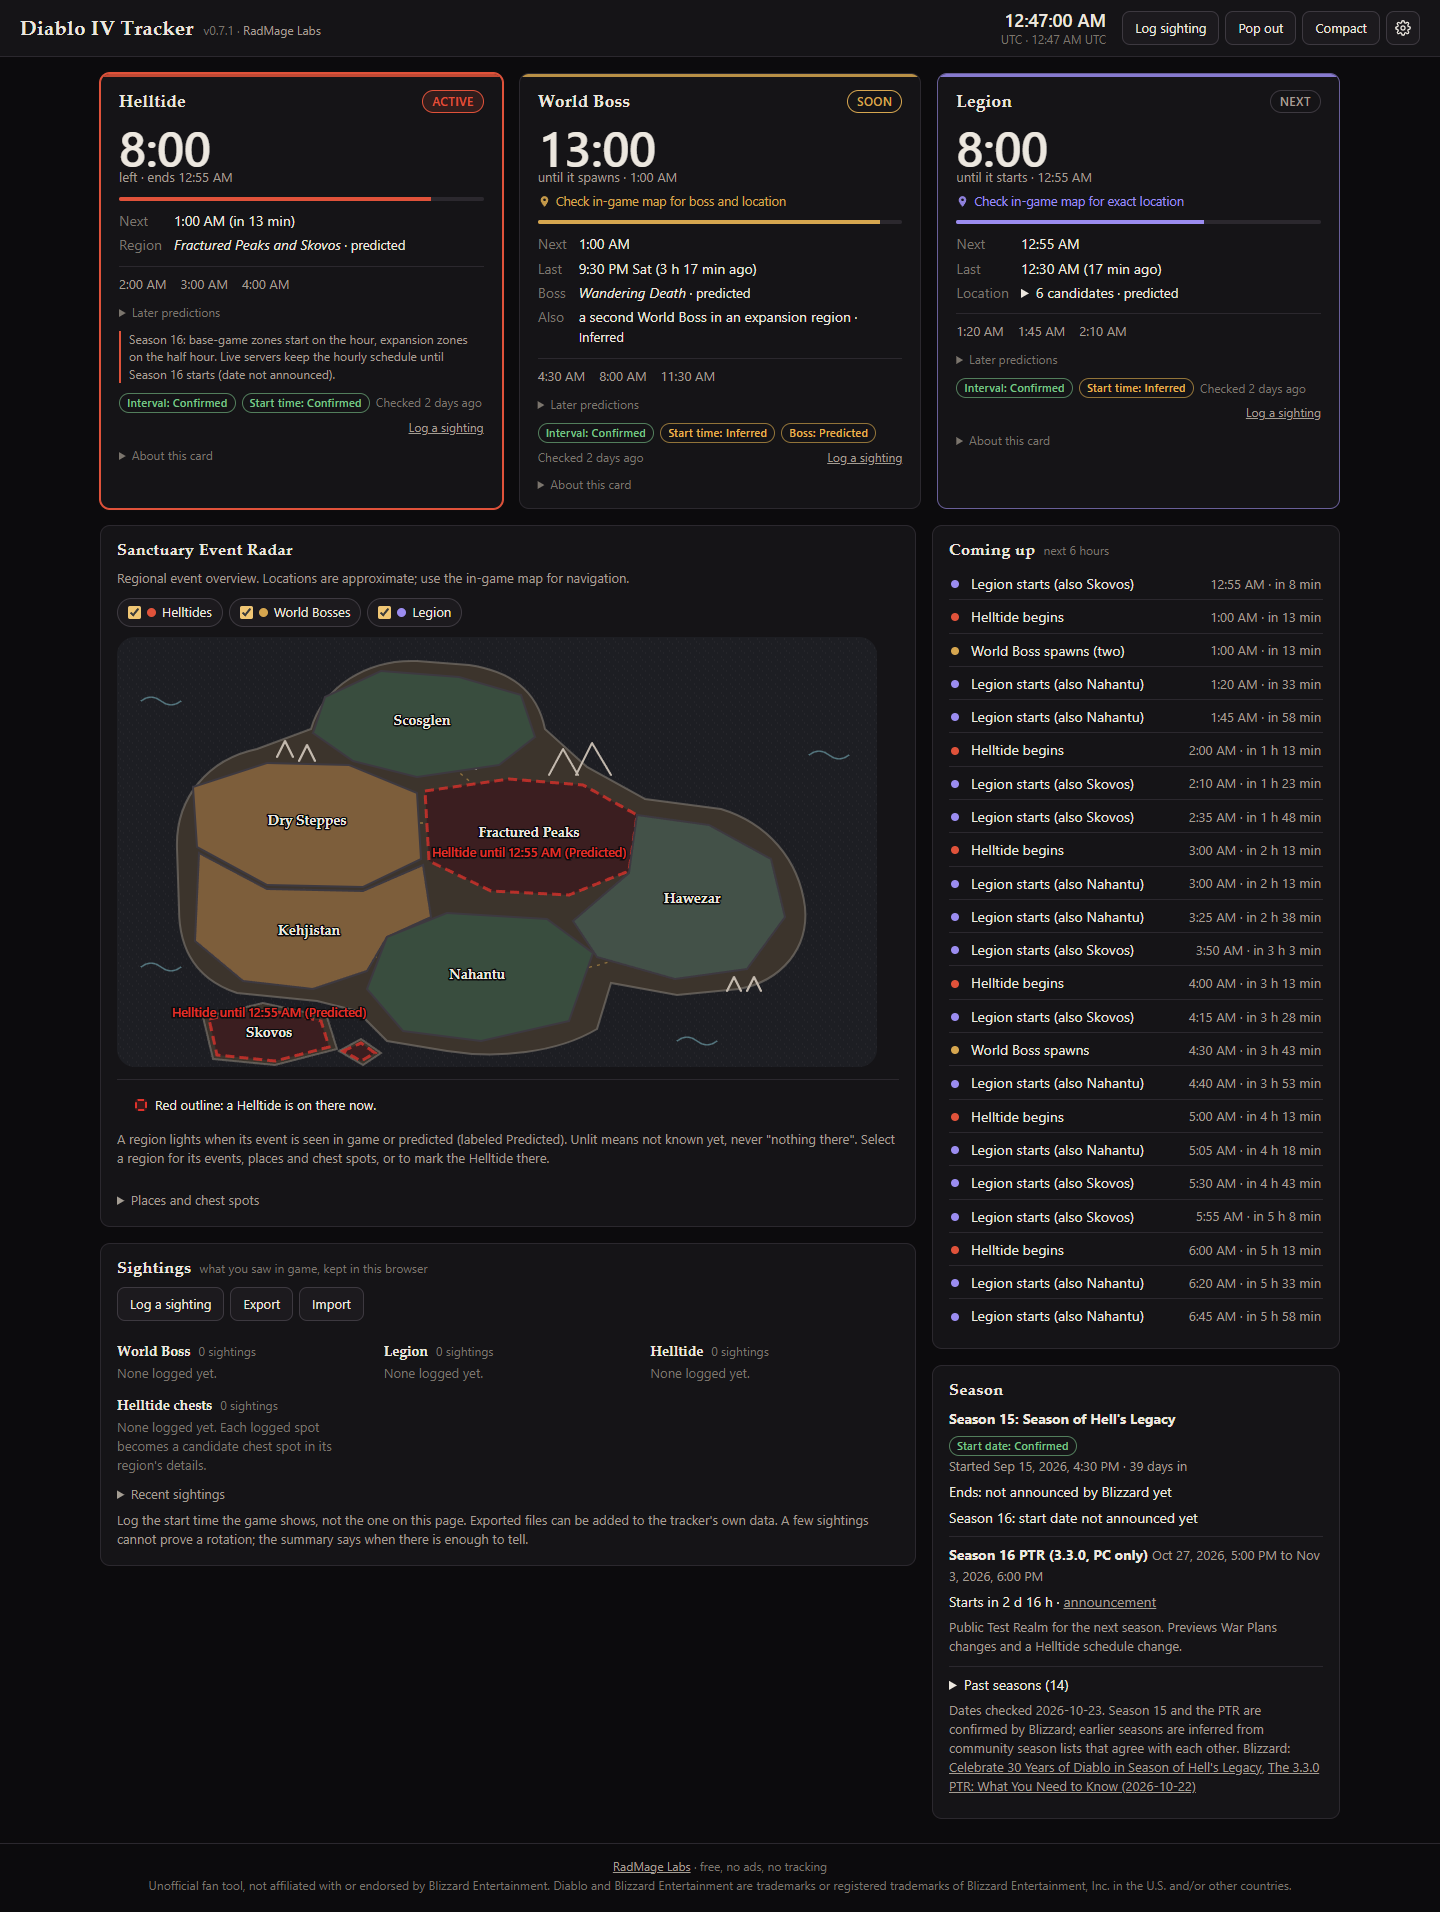
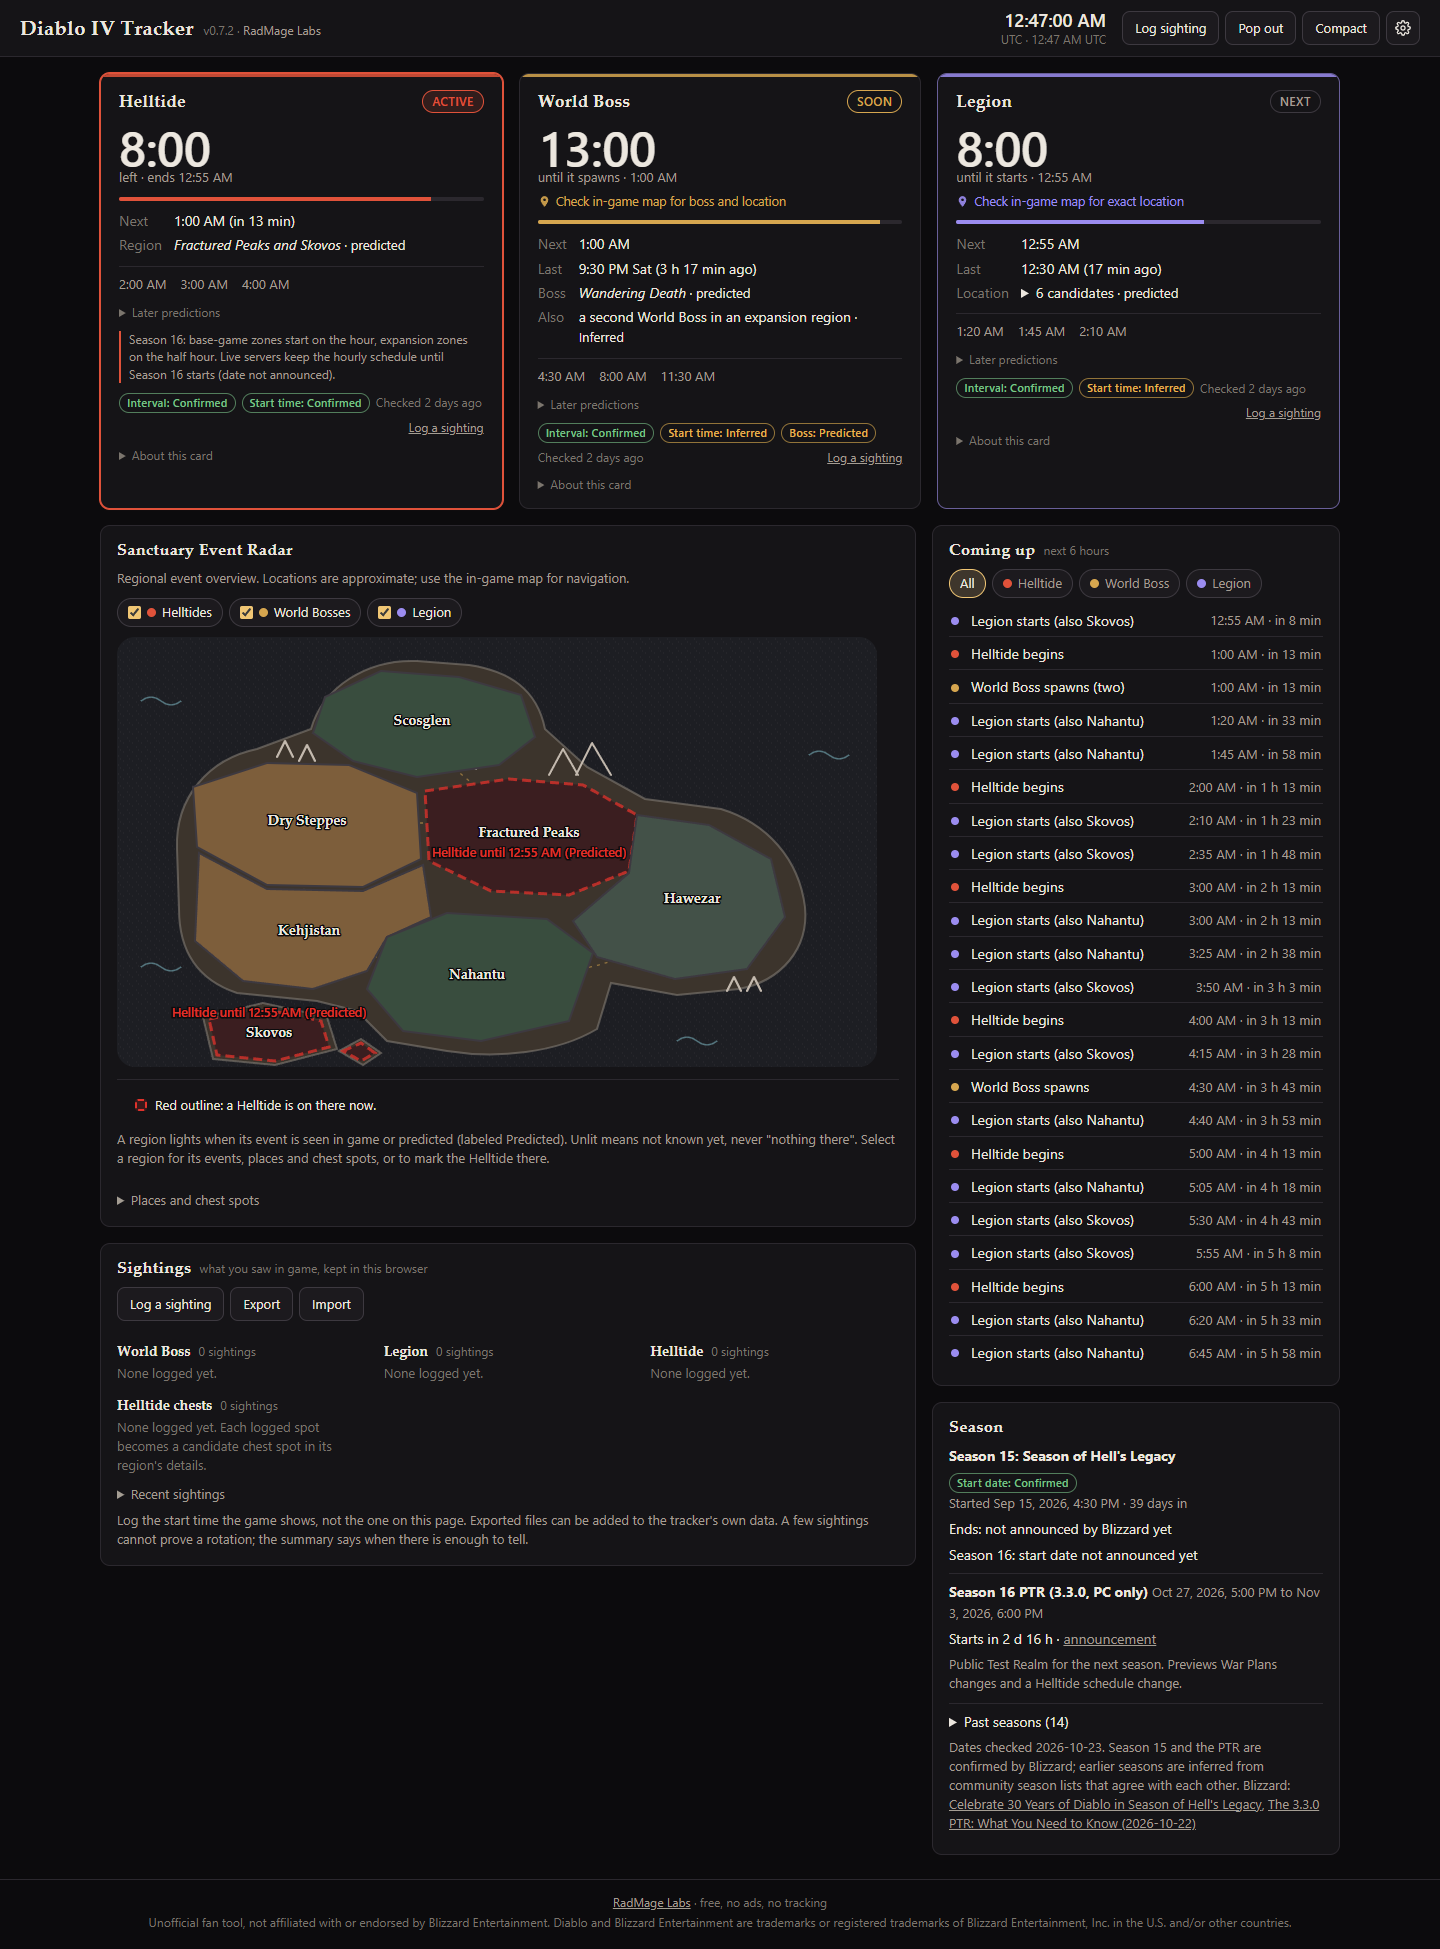
Diablo IV Tracker v0.7.2: Coming up by event
Pick All, Helltide, World Boss or Legion above Coming up. One event
picked lists only its starts, each with its prediction on a line of its
own: the Helltide's regions, the World Boss's boss, the Legion's
candidates. World Boss looks a day ahead. The pick is remembered.
README: Coming up covers six hours and the Legion six candidates.

diff --git a/src/ui/timeline.ts b/src/ui/timeline.ts
@@ -1,15 +1,19 @@
-// "Coming up": the next starts of every shown event, merged and in order.
+// "Coming up": the next starts of every shown event, merged and in order, or one event's starts
+// with what is predicted for each.
 
 import { clockTime, dayLabel, spanWords } from '../engine/format';
 import { hasExtraSpawn, type EventKind, type EventStatus } from '../engine/events';
 import { startsInRange } from '../engine/segments';
+import { COMING_UP_CHOICES, type ComingUpChoice } from '../store/prefs';
 import { h, setText } from './dom';
 import type { ViewContext } from './cards';
 
 const VERB: Record<EventKind, string> = { helltide: 'begins', worldBoss: 'spawns', legion: 'starts' };
-/** How far ahead the list looks, and a cap on its rows (six hours hold about 24 starts). */
-const SPAN_HOURS = 6;
+/** How far ahead the list looks: six hours hold about 24 starts of every event; the World Boss
+ *  alone gets a day (about 7). Rows are capped. */
+const SPAN_HOURS: Record<ComingUpChoice, number> = { all: 6, helltide: 6, worldBoss: 24, legion: 6 };
 const MAX_ROWS = 30;
+const PICK_LABEL: Record<ComingUpChoice, string> = { all: 'All', helltide: 'Helltide', worldBoss: 'World Boss', legion: 'Legion' };
 
 export interface TimelineItem {
   kind: EventKind;
@@ -17,11 +21,12 @@ export interface TimelineItem {
   startMs: number;
   /** This start brings a second one at the same time (every fourth World Boss). */
   extra: boolean;
-  /** A short predicted addition for this start, e.g. "also Skovos" (the expansion Legion). */
+  /** What is predicted for this start: short with every event ("also Skovos", the expansion
+   *  Legion), fuller with one picked (the Helltide's regions, the World Boss's boss). */
   note?: string;
 }
 
-/** A start's short note, or null for none. */
+/** A start's note, or null for none. */
 export type TimelineNote = (kind: EventKind, startMs: number) => string | null;
 
 /** Starts of every status in (nowMs, nowMs + spanMs], soonest first, at most `limit`. */
@@ -39,28 +44,51 @@ export function timelineItems(statuses: EventStatus[], nowMs: number, spanMs: nu
 
 export class Timeline {
   readonly el: HTMLElement;
+  private span = h('span', { class: 'note' });
+  private picks = new Map<ComingUpChoice, HTMLButtonElement>();
   private list = h('ol', { class: 'timeline' });
   private empty = h('p', { class: 'help' }, 'Nothing shown is scheduled in the next few hours.');
   private key = '';
 
-  constructor() {
-    this.el = h('div', {}, h('h2', { id: 'timeline-title' }, 'Coming up', h('span', { class: 'note' }, `next ${SPAN_HOURS} hours`)), this.list, this.empty);
+  constructor(onPick: (choice: ComingUpChoice) => void) {
+    for (const c of COMING_UP_CHOICES) {
+      const b = h('button', { class: 'chip', type: 'button', 'data-pick': c, 'aria-pressed': 'false' },
+        c === 'all' ? null : h('span', { class: 'swatch', 'aria-hidden': 'true' }), PICK_LABEL[c]);
+      b.addEventListener('click', () => onPick(c));
+      this.picks.set(c, b);
+    }
+    this.el = h('div', {}, h('h2', { id: 'timeline-title' }, 'Coming up', this.span),
+      h('div', { class: 'tl-picks', role: 'group', 'aria-label': 'Show in Coming up' }, ...this.picks.values()),
+      this.list, this.empty);
   }
 
-  update(statuses: EventStatus[], ctx: ViewContext, noteOf?: TimelineNote): void {
-    const items = timelineItems(statuses, ctx.nowMs, SPAN_HOURS * 3600000, MAX_ROWS, noteOf);
-    const key = items.map((i) => `${i.kind}${i.startMs}${i.note ?? ''}`).join(',') + ctx.timeZone + ctx.clock;
+  /** `notes.all` notes the starts of every event together; `notes.one` those of one picked event. */
+  update(statuses: EventStatus[], ctx: ViewContext, choice: ComingUpChoice, notes: { all?: TimelineNote; one?: TimelineNote }): void {
+    // An event hidden from the page is not offered; one picked before it was hidden shows all.
+    const offered = new Set<ComingUpChoice>(statuses.map((s) => s.kind));
+    const pick = offered.has(choice) ? choice : 'all';
+    for (const [c, b] of this.picks) {
+      b.hidden = c !== 'all' && !offered.has(c);
+      b.setAttribute('aria-pressed', String(c === pick));
+    }
+    const hours = SPAN_HOURS[pick];
+    setText(this.span, `next ${hours} hours`);
+    const items = timelineItems(pick === 'all' ? statuses : statuses.filter((s) => s.kind === pick), ctx.nowMs, hours * 3600000,
+      MAX_ROWS, pick === 'all' ? notes.all : notes.one);
+    const key = pick + items.map((i) => `${i.kind}${i.startMs}${i.note ?? ''}`).join(',') + ctx.timeZone + ctx.clock;
     if (key !== this.key) {
       this.key = key;
       this.list.replaceChildren(...items.map((i) => {
         const day = dayLabel(i.startMs, ctx.nowMs, ctx.timeZone);
         const t = clockTime(i.startMs, ctx.timeZone, ctx.clock);
+        const label = `${i.name} ${VERB[i.kind]}${i.extra ? ' (two)' : ''}`;
         return h('li', { 'data-kind': i.kind, 'data-start': i.startMs },
           h('span', { class: 'dot', 'aria-hidden': 'true' }),
-          // The note is kept whole: on a narrow screen it moves to the next line, never splits.
-          i.note
-            ? h('span', {}, `${i.name} ${VERB[i.kind]}${i.extra ? ' (two)' : ''} `, h('span', { class: 'tl-note' }, `(${i.note})`))
-            : h('span', {}, `${i.name} ${VERB[i.kind]}${i.extra ? ' (two)' : ''}`),
+          // One event picked: the prediction on its own line under the start. All events: a short
+          // note, kept whole (on a narrow screen it moves to the next line, never splits).
+          !i.note ? h('span', {}, label)
+            : pick !== 'all' ? h('span', {}, label, h('span', { class: 'tl-detail' }, i.note))
+            : h('span', {}, `${label} `, h('span', { class: 'tl-note' }, `(${i.note})`)),
           h('span', { class: 'when' }, h('span', { class: 'at' }, day === 'Today' ? t : `${t} ${day}`), ' · ', h('span', { class: 'in' })));
       }));
     }

diff --git a/src/main.ts b/src/main.ts
@@ -102,7 +102,7 @@ for (const def of scheduleSource.definitions(nowMs())) {
   cardsEl.append(card.el);
 }
 
-const timeline = new Timeline();
+const timeline = new Timeline((choice) => change((p) => { p.comingUp = choice; }));
 byId('timeline-panel').append(timeline.el);
 const season = new SeasonPanel(SEASONS);
 byId('season-panel').append(season.el);
@@ -223,6 +223,13 @@ function orderNotes(kind: EventKind, now: number, timeZone: string): OrderNote[]
 function expansionTimelineNote(kind: EventKind, startMs: number): string | null {
   const x = kind === 'legion' ? detailsSource.legionExpansionAt(startMs) : null;
   return x ? `also ${x.region}` : null;
+}
+
+/** Coming up, one event picked: what is predicted for each start (the Helltide's regions, the World
+ *  Boss's boss, the Legion's candidates as in Later predictions); the cards label these Predicted. */
+function pickedTimelineNote(kind: EventKind, startMs: number, now: number): string | null {
+  const p = detailsSource.predicted(kind, startMs, now);
+  return (kind === 'worldBoss' ? p.identity : p.location) ?? null;
 }
 
 /** Where the expansion Legion's predicted site comes from, for the Legion card's About section only. */
@@ -434,7 +441,7 @@ function render(): void {
       extra: extraNote(st),
     });
   }
-  timeline.update(shown, c, expansionTimelineNote);
+  timeline.update(shown, c, prefs.comingUp, { all: expansionTimelineNote, one: (kind, startMs) => pickedTimelineNote(kind, startMs, c.nowMs) });
   season.update(c);
   sightingsPanel.update();
   map.update();

diff --git a/src/store/prefs.ts b/src/store/prefs.ts
@@ -18,6 +18,9 @@ export type ConfidenceId = 'confirmed' | 'inferred' | 'unknown';
 export type RealmChoice = 'any' | 'seasonal' | 'eternal';
 export type RadarId = 'helltide' | 'worldBoss' | 'legion';
 export const RADAR_IDS: RadarId[] = ['helltide', 'worldBoss', 'legion'];
+/** What Coming up lists: every shown event, or one event's starts. */
+export type ComingUpChoice = 'all' | 'helltide' | 'worldBoss' | 'legion';
+export const COMING_UP_CHOICES: ComingUpChoice[] = ['all', 'helltide', 'worldBoss', 'legion'];
 /** How many minutes before a spawn the event radar shows it. */
 export const RADAR_LEADS = { worldBoss: [15, 30, 60], legion: [5, 10, 15] } as const;
 
@@ -49,6 +52,7 @@ export interface Prefs {
   radar: Record<RadarId, boolean>;
   /** Minutes before a spawn its radar marker appears. */
   radarLead: { worldBoss: number; legion: number };
+  comingUp: ComingUpChoice;
 }
 
 export const CARD_IDS: CardId[] = ['helltide', 'worldBoss', 'legion', 'map', 'season', 'sightings'];
@@ -70,6 +74,7 @@ export function defaultPrefs(): Prefs {
     realm: 'any',
     radar: { helltide: true, worldBoss: true, legion: true },
     radarLead: { worldBoss: 30, legion: 10 },
+    comingUp: 'all',
   };
 }
 
@@ -123,6 +128,7 @@ export function sanitize(raw: unknown): Prefs {
       worldBoss: pickLead(lead.worldBoss, RADAR_LEADS.worldBoss, d.radarLead.worldBoss),
       legion: pickLead(lead.legion, RADAR_LEADS.legion, d.radarLead.legion),
     },
+    comingUp: pickOne(raw.comingUp, COMING_UP_CHOICES, d.comingUp),
   };
 }
 

diff --git a/src/styles.css b/src/styles.css
@@ -337,6 +337,13 @@ details.later-predictions ul { margin: 4px 0 0; padding: 0; list-style: none; di
 .timeline .dot { width: 8px; height: 8px; border-radius: 50%; background: var(--accent); }
 .timeline .when { color: var(--text-dim); font-size: 13px; text-align: right; }
 .timeline .tl-note { white-space: nowrap; }
+.timeline .tl-detail { display: block; font-size: 13px; color: var(--text-dim); }
+.tl-picks { display: flex; flex-wrap: wrap; gap: 6px; margin: 0 0 8px; }
+.tl-picks .chip { font: inherit; font-size: 13px; color: var(--text-dim); }
+.tl-picks .chip[aria-pressed="true"] { color: var(--text); border-color: var(--focus); background: color-mix(in srgb, var(--focus) 16%, var(--surface-2)); }
+.tl-picks .chip[data-pick="helltide"] .swatch { background: var(--helltide); }
+.tl-picks .chip[data-pick="worldBoss"] .swatch { background: var(--boss); }
+.tl-picks .chip[data-pick="legion"] .swatch { background: var(--legion); }
 .timeline li[data-kind="helltide"] { --accent: var(--helltide); }
 .timeline li[data-kind="worldBoss"] { --accent: var(--boss); }
 .timeline li[data-kind="legion"] { --accent: var(--legion); }

diff --git a/tests/prefs.test.ts b/tests/prefs.test.ts
@@ -69,6 +69,12 @@ describe('sanitize', () => {
     expect(sanitize({ radarLead: { worldBoss: 45, legion: 'x' } }).radarLead).toEqual({ worldBoss: 30, legion: 10 });
     expect(sanitize({ radar: { legion: false, helltide: 'no' } }).radar).toEqual({ helltide: true, worldBoss: true, legion: false });
   });
+
+  it('shows every event in Coming up by default, and keeps a saved pick only when it is offered', () => {
+    expect(defaultPrefs().comingUp).toBe('all');
+    expect(sanitize({ comingUp: 'worldBoss' }).comingUp).toBe('worldBoss');
+    expect(sanitize({ comingUp: 'season' }).comingUp).toBe('all');
+  });
 });
 
 describe('storage key', () => {

diff --git a/index.html b/index.html
@@ -33,7 +33,7 @@
   <header class="topbar">
     <div class="brand">
       <h1>Diablo IV Tracker</h1>
-      <span class="tag">v0.7.1 · <a href="https://radmagelabs.com/">RadMage Labs</a></span>
+      <span class="tag">v0.7.2 · <a href="https://radmagelabs.com/">RadMage Labs</a></span>
     </div>
     <div class="clock" id="clock" aria-label="Current time">
       <div class="now" id="clock-now">--:--</div>

diff --git a/README.md b/README.md
@@ -7,7 +7,7 @@ your browser from rules kept in this repository; it does not depend on any other
 
 Live at https://radmagelabs.com/d4/
 
-![Diablo IV Tracker v0.7.1 at 12:47 AM UTC on a first visit: an active Helltide with 8:00 left, predicted in Fractured Peaks and Skovos, which the Sanctuary Event Radar outlines in red; the World Boss in 13:00 with its predicted boss, Wandering Death, a second World Boss in an expansion region, and a prompt to check the in-game map for boss and location; the next Legion in 8:00 with its six candidate sites folded, four base-game and two expansion, and a prompt to check the in-game map; six hours of coming-up starts, each Legion with its predicted expansion region; the empty sightings log and the Season 15 panel](screenshots/dashboard.png)
+![Diablo IV Tracker v0.7.2 at 12:47 AM UTC on a first visit: an active Helltide with 8:00 left, predicted in Fractured Peaks and Skovos, which the Sanctuary Event Radar outlines in red; the World Boss in 13:00 with its predicted boss, Wandering Death, a second World Boss in an expansion region, and a prompt to check the in-game map for boss and location; the next Legion in 8:00 with its six candidate sites folded, four base-game and two expansion, and a prompt to check the in-game map; six hours of coming-up starts with All, Helltide, World Boss and Legion picks, each Legion with its predicted expansion region; the empty sightings log and the Season 15 panel](screenshots/dashboard.png)
 
 ## What it shows
 
@@ -19,8 +19,11 @@ Live at https://radmagelabs.com/d4/
   card says so. From an hour before a spawn the card says to check the in-game map, which then shows
   the boss and its arena.
 - **Legion.** A countdown to the next Legion event, when the last one started, the next three, and
-  the four candidate sites. From ten minutes before, the card says to check the in-game map.
-- **Coming up.** Every start in the next four hours in one list.
+  its six candidate sites, four base-game and two expansion. From ten minutes before, the card says
+  to check the in-game map.
+- **Coming up.** Every start in the next six hours in one list. Pick Helltide, World Boss or Legion
+  to list only that event's starts, each with what is predicted for it: the Helltide's regions, the
+  World Boss's boss (a whole day of World Bosses), the Legion's candidates.
 - **Season.** The live season, when it started and how many days in it is, its end and the next
   season's start once Blizzard announces them, announced windows such as a PTR, and every past
   season with its dates and length.

diff --git a/CHANGELOG.md b/CHANGELOG.md
@@ -1,5 +1,12 @@
 # Changelog
 
+## v0.7.2 (2026-10-25)
+
+- Coming up by event. Pick All, Helltide, World Boss or Legion above the list. One event picked
+  lists only its starts, each with what is predicted for it on a line of its own: the Helltide's
+  regions, the World Boss's boss, the Legion's candidates. World Boss looks a whole day ahead (about
+  seven spawns); the others six hours. The pick is remembered.
+
 ## v0.7.1 (2026-10-25)
 
 - Six Legion candidates. The Legion card's Location reads "6 candidates · predicted": the group's
